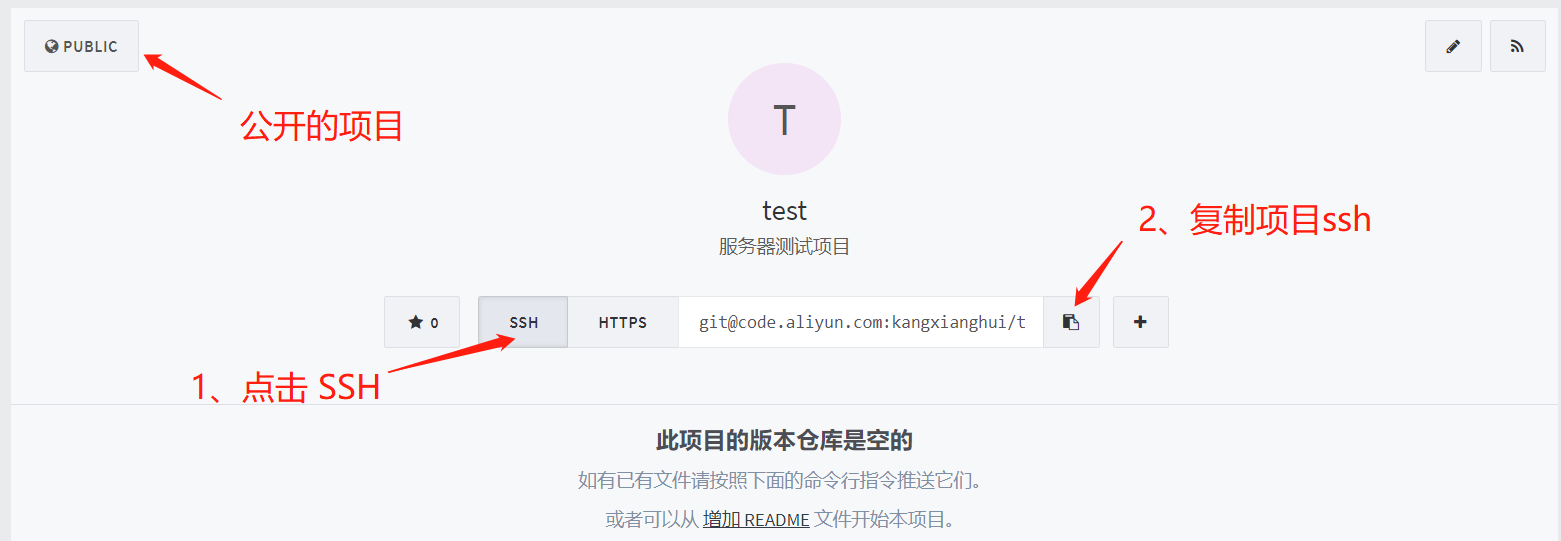
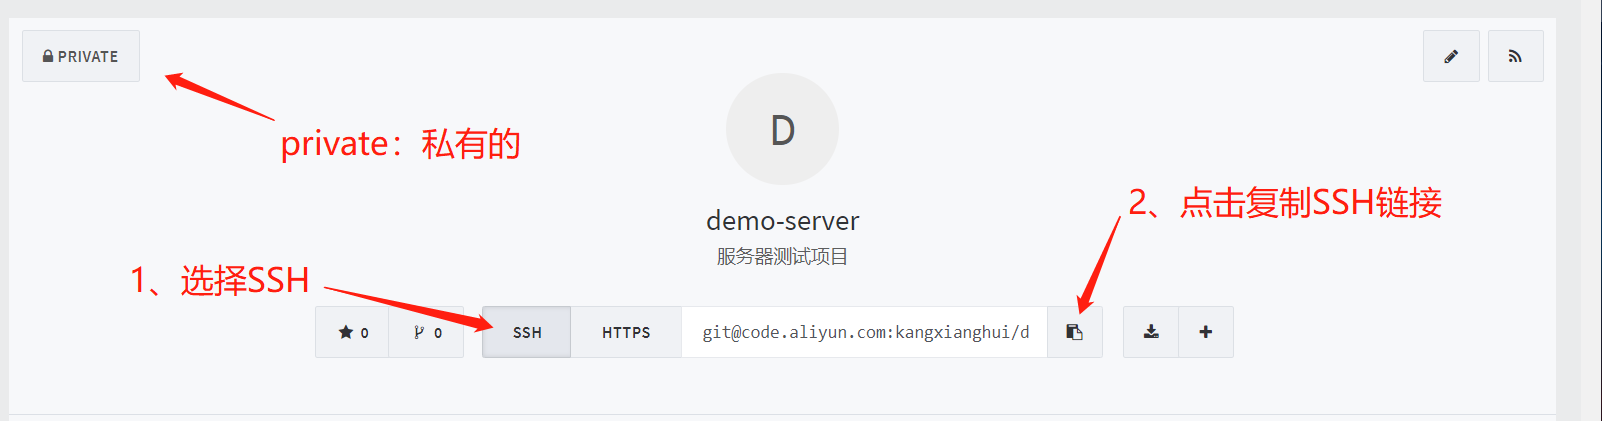
部署的说明文档修改

diff --git a/bushu.MD b/bushu.MD
@@ -167,7 +167,7 @@ gpgkey=https://nginx.org/keys/nginx_signing.key
 
 > [顶部](#部署部分)  
 
-- 1、进入[code.aliyun.com](https://code.aliyun.com/)，**创建**一个public服务器项目  
+- 1、进入[code.aliyun.com](https://code.aliyun.com/)，**创建**一个private服务器项目  
 ![img36](img/bs/微信截图_20210413112537.png)
 - 2、**克隆**到本地  
 ![img37](img/bs/微信截图_20210413112651.png)
